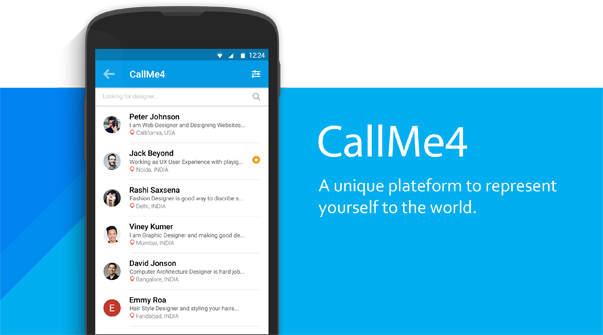
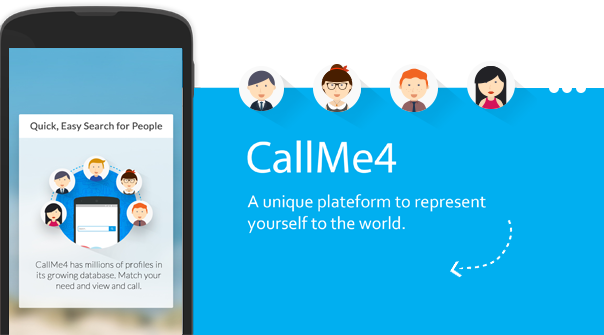
added responsive

diff --git a/css/cmapp.css b/css/cmapp.css
@@ -25,13 +25,13 @@
 
 .modal-container .modal{
   position: absolute;
-  width: 603px;
-  height: 335px;
+  width: 282px;
+  height: 307px;
   top: 50%;
   left: 50%;
-  margin-left: -301px;
+  margin-left: -141px;
   margin-top: 0px;
-  background: url('../images/newsletter.png') no-repeat;
+  background: url('../images/newslette2r.png') no-repeat;
   box-shadow: 0 10px 24px 0 rgba(0, 0, 0, 0.4);
   transform: translate(0px, 50px);
   -webkit-transform: translate(0px, 50px);
@@ -42,7 +42,7 @@
 .modal-container .modal .close-button{
   position: absolute;
   left:100%;
-  bottom:74%;
+  bottom:100%;
   margin-left:-20px;
   margin-bottom:10px;
   width:24px;
@@ -52,17 +52,19 @@
   transition: all 100ms ease-in-out;
 }
 
+.modal-container .modal img:hover,
 .modal-container .modal .close-button:hover{
   transform: scale(1.1);
-  -webkit-transform: scale(1.2)
+  -webkit-transform: scale(1.1)
 }
 
 .modal-container .modal img{
   display: block;
   position: absolute;
-  bottom: 10%;
-  right: 8%;
+  top: 5%;
+  left: 20%;
   margin: 0 auto;
+  transition: all 300ms ease-in-out;
 }
 
 .modal-open .modal-container {
@@ -71,5 +73,12 @@
 }
 
 .modal-open .modal-container .modal {
-  margin-top: -250px; 
+  margin-top: -200px; 
+}
+
+@media (min-width: 750px) {
+  .modal-container .modal{
+    width: 603px; height: 335px; margin-left: -301px; margin-top: 0px; background: url('../images/newsletter.png') no-repeat;}
+  .modal-container .modal .close-button{ bottom:74%; margin-left:-20px; margin-bottom:10px;}
+  .modal-container .modal img{ top: 72%; left: 41%;}
 }

diff --git a/index.html b/index.html
@@ -214,7 +214,7 @@
       <div class="modal">
         <div class="close-button"></div>
         <div class="store-btn">
-          <a href="javascript:void(0)" onClick="ga('send', 'event', { eventCategory: 'AppStoreClicked', eventAction: 'gotoStore', eventLabel: 'GooglePlay', eventValue: 100});goToURL(); return false;"><img src="images/btn-adrd.png" width="280px"></a>
+          <a href="javascript:void(0)" onClick="ga('send', 'event', { eventCategory: 'AppStoreClicked', eventAction: 'gotoStore', eventLabel: 'GooglePlay', eventValue: 100});goToURL(); return false;"><img src="images/btn-adrd.png" width="200px"></a>
         </div>
     </div>
     <!-- end -->
